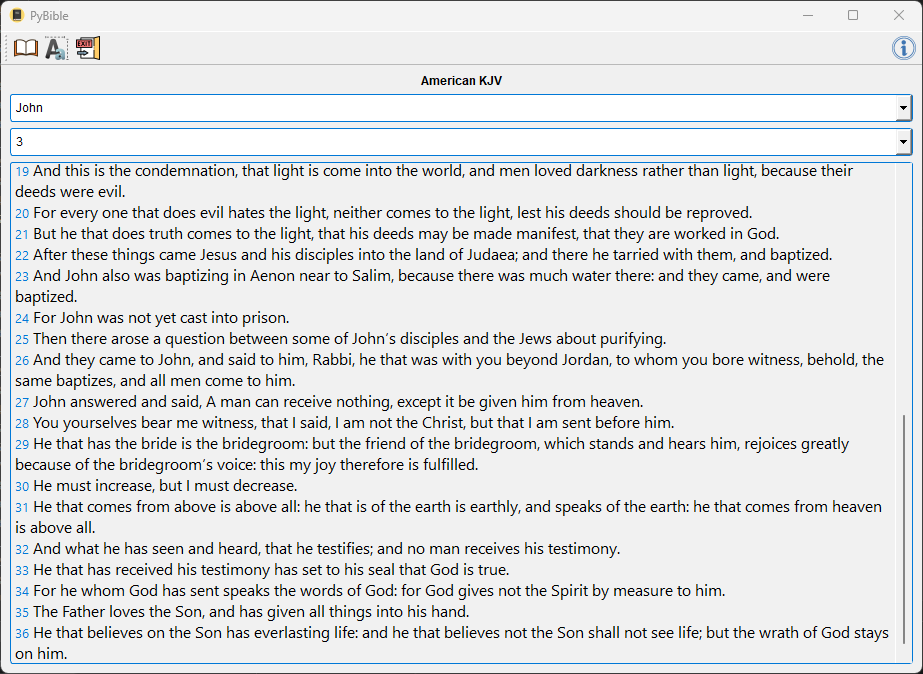
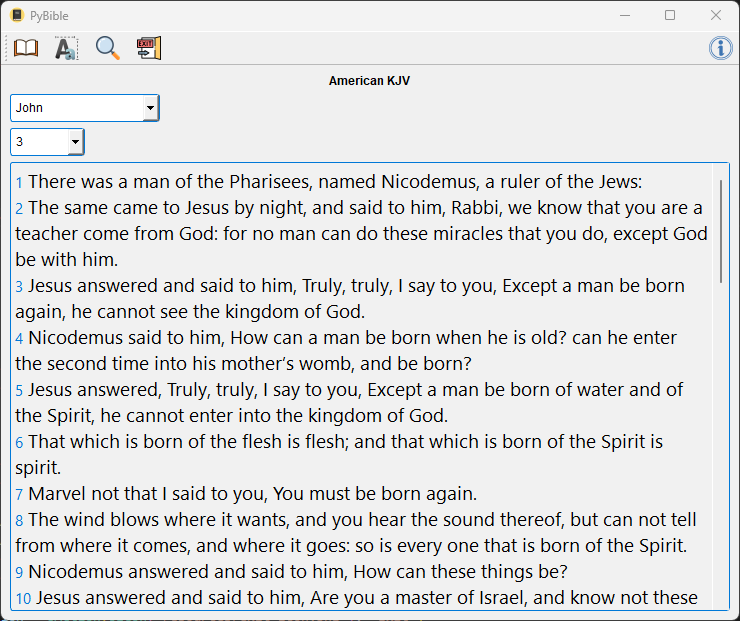
search feature added, updated readme, screenshot

Changed region(s): [[0.0, 0.0, 1.0, 1.0], [0.9014, 0.0, 0.9324, 0.0306]]

diff --git a/README.md b/README.md
@@ -1,8 +1,8 @@
 
   # PyBible 📝  
-  Simple Python app to read XML Bible files.
+  Simple Python app to read and search XML Bible files.
 
-  Version 1.1.0
+  Version 1.2.0
 
   #### Three Bibles are included:
   - King James Version
@@ -25,8 +25,7 @@
   
   ## TODO: ✨ 
  - Text to speech
- - Favorites
- - Search  
+ - Favorites 
 
 
   ##
